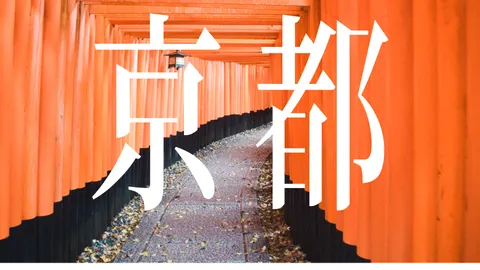
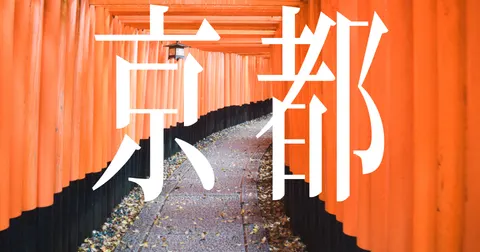
feat: ogp 1200x630

diff --git a/src/content/blog/develop/rustdesk.md b/src/content/blog/develop/rustdesk.md
@@ -3,6 +3,7 @@ title: "Rust製リモートデスクトップアプリ Rust Desk"
 date: "2026-07-04T18:24:14+09:00"
 draft: false
 tags: []
+ogImage: /ogp/rustdesk.png
 ---
 
 <h2 class="text-center bg-yellow-300 text-gray-700 py-5 leading-loose"><span class="p-2 bg-gray-800 text-gray-200">Win11 Home</span> はリモートデスクトップが出来ない !</h2>
